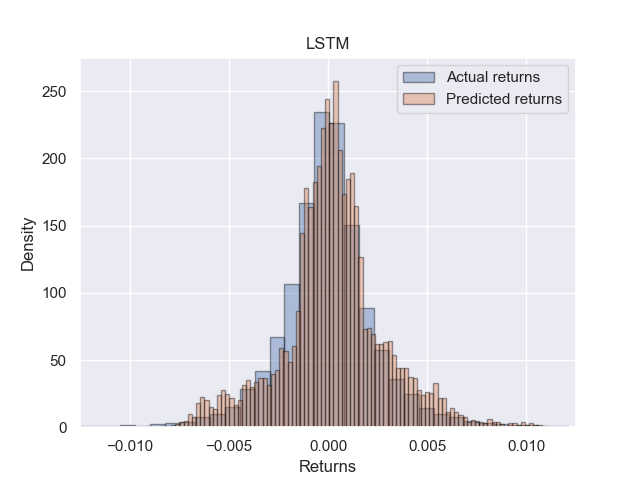
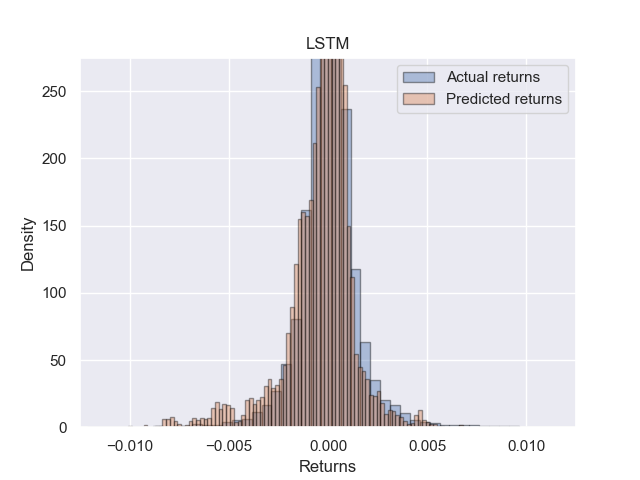
-

Changed region(s): [[0.25, 0.125, 0.8438, 0.9062]]

diff --git a/src/Evaluation/trading_strategi_tries.py b/src/Evaluation/trading_strategi_tries.py
@@ -1,25 +1,99 @@
 import matplotlib.pyplot as plt
 import pandas as pd
 import numpy as np
+from sklearn.metrics import zero_one_loss
+import seaborn as sns
 
-tickers = ['ACN', 'AMAT', 'CDNS', 'IBM', 'INTU', 'LRCX', 'NTAP', 'VRSN', 'WU', 'XLNX']
-ticker = tickers[0]
-del tickers[0]
+tickers = ['ACN', 'AMAT', 'CDNS', 'IBM', 'INTU']#['LRCX', 'NTAP', 'VRSN', 'WU', 'XLNX']#
 
-pred_path = '../output/LSTM_results/single_test/' + ticker + '_test_predictions.csv'
-real_path = '../output/LSTM_results/single_test/' + ticker + '_test_real.csv'
+pred_path = '../output/LSTM_results/test_results/partial_all_stocks_pred.csv'
+real_path = '../output/LSTM_results/test_results/partial_all_stocks_real.csv'
 
 pred = pd.read_csv(pred_path).values
 real = pd.read_csv(real_path).values
-
-treshold = 0
-
+test = []
 for i, ticker in enumerate(tickers):
-    pred_path = '../output/LSTM_results/single_test/' + ticker + '_test_predictions.csv'
-    real_path = '../output/LSTM_results/single_test/' + ticker + '_test_real.csv'
+    predicted_values = pred[:, i]
+    real_values = real[:, i]
+    MSE = sum(( real_values)**2)/predicted_values.shape[0]
 
-    new_pred = pd.read_csv(pred_path).values
-    new_real = pd.read_csv(real_path).values
+    # accuracy
+    real_zero_one = real_values.copy()
+    real_zero_one[real_zero_one > 0] = 1
+    real_zero_one[real_zero_one < 0] = 0
+    pred_zero_one = predicted_values.copy()
+    pred_zero_one[pred_zero_one > 0] = 1
+    pred_zero_one[pred_zero_one < 0] = 0
+    accuracy = 1 - zero_one_loss(pred_zero_one, real_zero_one)
 
-    #pred = np.concatenate((pred, new_pred), axis=1)
-    #real = np.concatenate((real, new_real), axis=1)
+    pred_zero_one = predicted_values.copy()
+    FPR_list = [0]
+    TRP_list = [0]
+    list_of_t = sorted(predicted_values)
+    auc = 0
+    for j in range(len(list_of_t)):
+        t = list_of_t[j]
+        pred_zero_one = predicted_values.copy()
+        pred_zero_one[pred_zero_one > t] = 1
+        pred_zero_one[pred_zero_one < t] = 0
+        TP = np.sum(np.logical_and(pred_zero_one == 1, real_zero_one == 1))
+        TN = np.sum(np.logical_and(pred_zero_one == 0, real_zero_one == 0))
+        FP = np.sum(np.logical_and(pred_zero_one == 1, real_zero_one == 0))
+        FN = np.sum(np.logical_and(pred_zero_one == 0, real_zero_one == 1))
+        TPR = TP/(TP + FN)
+        FPR = FP/(FP + TN)
+        auc += (FPR - FPR_list[j]) * TPR
+        FPR_list.append(FPR)
+        TRP_list.append(TPR)
+    #print('AUC:', 1 - auc)
+    #sns.set(color_codes=True)
+    #plt.scatter(FPR_list, TRP_list, s=2, label=ticker+', AUC: '+str(round(1 - auc, 3)))
+    #plt.plot([0, 1], [0, 1], color='red')
+
+"""
+plt.xlabel('False Positive rate')
+plt.ylabel('True positive rate')
+plt.title('ROC curves')
+plt.legend()
+plt.savefig('../output/ROC_five_first.png')
+plt.show()
+"""
+
+"""
+    # returns
+    predicted_values = pred[:, i]
+    real_values = real[:, i]
+    investment_strategy = np.zeros(predicted_values.shape)
+    investment_strategy[predicted_values > 0] = real_values[predicted_values > 0]
+    investment_strategy[predicted_values < 0] = real_values[predicted_values < 0]
+    total_ret = 1
+    for j in range(investment_strategy.shape[0]):
+        total_ret *= (1 + investment_strategy[j])
+
+
+
+    print('=====')
+"""
+
+    #print(ticker, np.mean(investment_strategy)/np.std(investment_strategy))
+
+
+
+
+real_list = [1]
+pred_list = [1]
+idx = 1
+tim_ad_real = []
+tim_ad_pred = []
+for i in range(int(real.shape[0])):
+    real_list.append((real[i, idx] + 1) * real_list[i - 1])
+    pred_list.append((pred[i, idx] + 1) * real_list[i - 1])
+    if i % 12 == 0:
+        tim_ad_real.append(real_list[i])
+        tim_ad_pred.append(pred_list[i])
+
+plt.plot(tim_ad_real, label='pred')
+plt.plot(tim_ad_pred, label='real')
+
+plt.legend()
+plt.show()

diff --git a/src/Evaluation/test_data_evaluation.py b/src/Evaluation/test_data_evaluation.py
@@ -9,10 +9,10 @@ tickers = ['ACN', 'AMAT', 'CDNS', 'IBM', 'INTU', 'LRCX', 'NTAP', 'VRSN', 'WU', '
 LSTM_partial: bool = True
 VAR: bool = False
 VARMAX: bool = False
-R2N2: bool = True
+R2N2: bool = False
 
-pred_path = '../output/LSTM_results/test_results/partial_all_stocks_pred.csv'
-real_path = '../output/LSTM_results/test_results/partial_all_stocks_real.csv'
+pred_path = '../output/LSTM_results/valid_results/partial_all_stocks_pred.csv'
+real_path = '../output/LSTM_results/valid_results/partial_all_stocks_real.csv'
 
 pred = pd.read_csv(pred_path).values
 real = pd.read_csv(real_path).values
@@ -141,8 +141,54 @@ if VARMAX is True:
 
 if VAR is True:
     var_test_path = '../output/VAR_results/test_predictions.csv'
-    var_data = pd.read_csv(var_test_path)
-    print(var_data)
+    var_data = pd.read_csv(var_test_path).values
+    var_data = var_data[24: var_data.shape[0]]
+
+    threshold = 0
+
+    strategy_returns = np.zeros(real.shape)
+
+    for i in range(strategy_returns.shape[0]):
+        for j in range(strategy_returns.shape[1]):
+            if var_data[i, j] > threshold:
+                strategy_returns[i, j] = real[i, j]
+            else:
+                strategy_returns[i, j] = -real[i, j]
+    strategy_returns = np.mean(strategy_returns, axis=1)
+
+    strat_return_total = 1
+    for i in range(strategy_returns.shape[0]):
+        strat_return_total *= (strategy_returns[i] + 1)
+
+    sns.set(color_codes=True)
+    sns.distplot(real.reshape(real.shape[0] * real.shape[1], 1), kde=True, hist=True, bins=200, label='Actual returns',
+                 hist_kws={'edgecolor': 'black'},
+                 kde_kws={"lw": 0})
+    sns.distplot(var_data.flatten(), kde=True, hist=True, bins=100,
+                 label='Predicted returns', hist_kws={'edgecolor': 'black'},
+                 kde_kws={"lw": 0})
+    plt.axis([-0.0125, 0.0125, 0, 5000])
+    plt.title('VAR')
+    plt.xlabel('Returns')
+    plt.ylabel('Density')
+    plt.legend()
+    plt.savefig('../output/VAR_density.png')
+    plt.show()
+    # plt.close()
+
+    MSE = sum(sum((var_data.reshape(var_data.shape[0]*var_data.shape[1], 1) -
+                   real.reshape(real.shape[0]*real.shape[1], 1))**2))/ int(pred.shape[0] * pred.shape[1])
+
+    pred_zero_one = var_data.flatten()
+    pred_zero_one[pred_zero_one > 0] = 1
+    pred_zero_one[pred_zero_one < 0] = 0
+
+    print('=====')
+    print('VAR MSE:', MSE)
+    print('VAR Accuracy:', 1 - zero_one_loss(real_zero_one, pred_zero_one))
+    print('VAR return:', (strat_return_total - 1) * 100)
+    print('VAR SR:', np.mean(strategy_returns) / np.std(strategy_returns))
+
 
 if R2N2 is True:
     threshold = 0
@@ -170,7 +216,7 @@ if R2N2 is True:
                  kde_kws={"lw": 0})
     sns.distplot(R2N2_data.reshape(real.shape[0]*real.shape[1], 1), kde=True, hist=True, bins=100, label='Predicted returns', hist_kws={'edgecolor': 'black'},
                  kde_kws={"lw": 0})
-    plt.axis([-0.0125, 0.0125, 0, 275])
+    plt.axis([-0.0125, 0.0125, 0, 5000])
     plt.title('R2N2')
     plt.xlabel('Returns')
     plt.ylabel('Density')

diff --git a/src/Evaluation/combined.py b/src/Evaluation/combined.py
@@ -1,0 +1,55 @@
+import matplotlib.pyplot as plt
+import pandas as pd
+import numpy as np
+from sklearn.metrics import zero_one_loss
+import seaborn as sns
+
+tickers = ['ACN', 'AMAT', 'CDNS', 'IBM', 'INTU', 'LRCX', 'NTAP', 'VRSN', 'WU', 'XLNX']
+
+pred_path_LSTM = '../output/LSTM_results/test_results/partial_all_stocks_pred.csv'
+pred_path_varmax = '../output/VARMAX_results/test_files/'
+real_path = '../output/LSTM_results/test_results/partial_all_stocks_real.csv'
+
+pred_LSTM = pd.read_csv(pred_path_LSTM).values
+real = pd.read_csv(real_path).values
+pred_VARMAX = np.zeros(pred_LSTM.shape)
+for i, ticker in enumerate(tickers):
+    path = pred_path_varmax+ticker+'_test_real.csv'  # THis is cuz i failed to name the VARMAX correctly
+    partial_varmax_data = pd.read_csv(path).values
+    partial_varmax_data = partial_varmax_data[24: partial_varmax_data.shape[0]]
+    pred_VARMAX[:, i] = partial_varmax_data.reshape(1265, )
+
+
+real_path = [1]
+pred_path_LSTM = [1]
+pred_path_VARMAX = [1]
+dummy = []
+
+pred_timead_path_LSTM = [1]
+pred_timead_path_varmax = [1]
+real_timead_path = [1]
+dummy_ta = [1]
+
+time_scalar = 12
+for i in range(pred_LSTM.shape[0]):
+    real_return = np.mean(real[i, :])
+    pred_return_LSTM = np.mean(pred_LSTM[i, :])
+    pred_return_VARMAX = np.mean(pred_VARMAX[i, :])
+
+    real_path.append((real_return + 1) * real_path[i - 1])
+    pred_path_LSTM.append((pred_return_LSTM + 1) * real_path[i - 1])
+    pred_path_VARMAX.append((pred_return_VARMAX + 1) * real_path[i - 1])
+    dummy.append(real_path[i-1])
+    if i % time_scalar == 0:
+        real_timead_path.append(real_path[i])
+        pred_timead_path_LSTM.append(pred_path_LSTM[i])
+        pred_timead_path_varmax.append(pred_path_VARMAX[i])
+        dummy_ta.append(dummy[i])
+
+plt.plot(dummy_ta, label='dummy')
+plt.plot(pred_timead_path_LSTM, label='LSTM pred')
+plt.plot(pred_timead_path_varmax, label='VARMAX pred')
+plt.plot(real_timead_path, label='real')
+
+plt.legend()
+plt.show()
